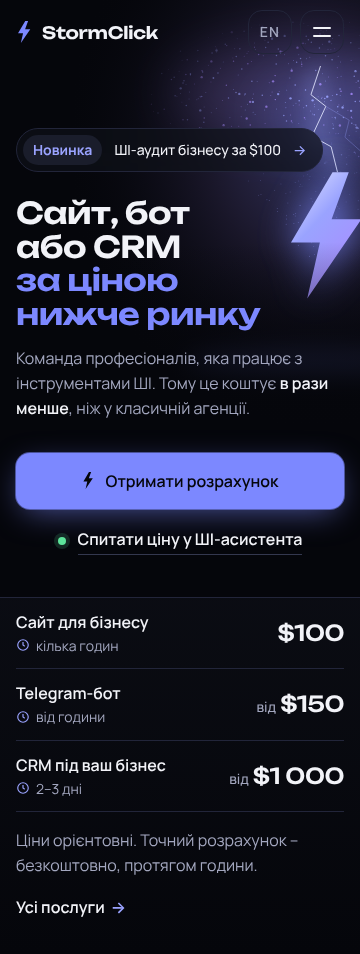
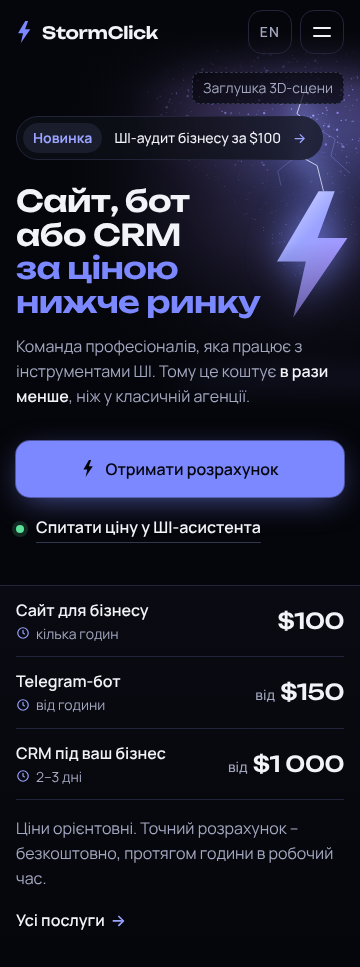
Виправити макет першого екрана за зауваженнями рецензентів
Claude-Session: https://claude.ai/code/session_01SrxZjAM5PvEX4BGjrzztdZ

diff --git a/projects/stormclick-site/design/mockup.html b/projects/stormclick-site/design/mockup.html
@@ -54,13 +54,14 @@ button{font:inherit;color:inherit;background:none;border:0;cursor:pointer}
 
 /* ---- Перший екран ---- */
 .hero{position:relative;min-height:100svh;display:flex;flex-direction:column;isolation:isolate;overflow:hidden}
-.storm{position:absolute;z-index:-1;pointer-events:none;top:0;right:-38%;width:118%;height:440px}
+.storm{position:absolute;z-index:-1;pointer-events:none;top:0;right:-34%;width:118%;height:440px}
+.storm::before{content:"";position:absolute;inset:0 0 auto;height:calc(var(--header-h) + 24px);background:linear-gradient(180deg,var(--c-bg) 35%,rgba(5,6,11,0));z-index:1}
 .storm svg{width:100%;height:100%;display:block}
 .storm::after{content:"";position:absolute;inset:0;background:linear-gradient(180deg,transparent 55%,var(--c-bg) 100%)}
 .hero-main{flex:1;display:flex;align-items:flex-end}
-.hero-main .container{padding-top:calc(var(--header-h) + var(--s-8));padding-bottom:var(--s-6)}
+.hero-main .container{padding-top:calc(var(--header-h) + 52px);padding-bottom:var(--s-6)}
 .announce{display:inline-flex;align-items:center;gap:var(--s-3);min-height:var(--tap);padding:6px 16px 6px 6px;border-radius:var(--r-pill);border:1px solid var(--c-line);background:rgba(14,16,24,.72);backdrop-filter:blur(8px);font-size:var(--fs-small);font-weight:500;color:var(--c-text);margin-bottom:var(--s-5);transition:border-color var(--dur-fast)}
-.announce b{font-weight:700;font-size:var(--fs-small);padding:4px 10px;border-radius:var(--r-pill);background:var(--c-surface-2);color:var(--c-accent-hi)}
+.announce b{margin-right:0;font-weight:700;font-size:var(--fs-small);padding:4px 10px;border-radius:var(--r-pill);background:var(--c-surface-2);color:var(--c-accent-hi)}
 .announce:hover{border-color:var(--c-line-strong)}
 .announce .arr{color:var(--c-accent-hi)}
 h1{font:600 var(--fs-h1)/var(--lh-h1) var(--font-display);letter-spacing:var(--tracking-display);text-wrap:balance;max-width:15ch}
@@ -73,38 +74,45 @@ h1 .hl{color:var(--c-accent);display:block}
 .btn-primary svg{width:12px;height:17px;fill:currentColor}
 .btn-primary:hover{background:var(--c-accent-hi);transform:translateY(-1px)}
 .btn-primary:active{transform:translateY(0) scale(.98)}
-.ask{display:inline-flex;align-items:center;justify-content:center;gap:var(--s-3);min-height:48px;padding:0 var(--s-2);font-weight:600;color:var(--c-text);border-radius:var(--r-md)}
+.ask{display:inline-flex;align-items:center;justify-content:flex-start;align-self:flex-start;gap:var(--s-3);min-height:48px;padding:0 var(--s-1) 0 0;font-weight:600;color:var(--c-text);border-radius:var(--r-md)}
 .ask .dot{width:8px;height:8px;border-radius:50%;background:var(--c-live);box-shadow:0 0 0 4px rgba(92,227,154,.16)}
 .ask .u{border-bottom:1px solid var(--c-line-strong);padding-bottom:2px;transition:border-color var(--dur-fast)}
 .ask:hover .u{border-color:var(--c-text)}
 
 /* ---- Смуга доказу: ціни й терміни ---- */
-.proof{border-top:1px solid var(--c-line);background:linear-gradient(180deg,rgba(14,16,24,.6),rgba(5,6,11,0))}
+.proof{position:relative;z-index:1;border-top:1px solid var(--c-line);background:linear-gradient(180deg,#0A0B12,var(--c-bg))}
 .proof .container{display:grid;grid-template-columns:1fr}
+.p-list{list-style:none;display:grid;grid-template-columns:1fr}
 .p-item{display:grid;grid-template-columns:1fr auto;grid-template-areas:"name price" "time price";column-gap:var(--s-4);align-items:center;padding:var(--s-3) 0;border-bottom:1px solid var(--c-line)}
 .p-name{grid-area:name;font-size:var(--fs-body);font-weight:600}
 .p-time{grid-area:time;font-size:var(--fs-small);color:var(--c-muted);display:flex;align-items:center;gap:6px}
 .p-time svg{width:14px;height:14px;stroke:var(--c-accent-hi);fill:none;stroke-width:2}
 .p-price{grid-area:price;font:500 var(--fs-price)/1 var(--font-display);letter-spacing:-.02em;text-align:right;white-space:nowrap}
-.p-price small{font:500 var(--fs-small)/1 var(--font-body);color:var(--c-muted);letter-spacing:0;margin-right:4px}
+.p-price small{font:500 var(--fs-small)/1 var(--font-body);color:var(--c-muted);letter-spacing:0}
 .p-note{padding:var(--s-4) 0 var(--s-5);font-size:var(--fs-body);color:var(--c-muted);display:flex;flex-wrap:wrap;align-items:center;justify-content:space-between;gap:var(--s-2) var(--s-4)}
 .p-note a{display:inline-flex;align-items:center;min-height:var(--tap);color:var(--c-text);font-weight:600;gap:6px}
 .p-note a span{color:var(--c-accent-hi)}
 
+/* Позначка заглушки – видима завжди, щоб SVG не сприйняли як фінальний візуал */
+.stub{position:absolute;z-index:4;right:max(var(--gutter),calc((100% - var(--container)) / 2));top:calc(var(--header-h) + 8px);display:inline-flex;align-items:center;gap:8px;padding:6px 10px;border:1px dashed var(--c-line-strong);border-radius:var(--r-sm);background:rgba(5,6,11,.7);font-size:var(--fs-small);line-height:1.3;color:var(--c-muted)}
+.stub .long{display:none}
 /* Анотація для погодження (вмикається ?notes) */
 .annot{display:none;position:absolute;z-index:5;right:var(--gutter);top:calc(var(--header-h) + 12px);max-width:260px;padding:10px 12px;border:1px dashed var(--c-accent);border-radius:var(--r-sm);font-size:var(--fs-small);color:var(--c-accent-hi);background:rgba(5,6,11,.8)}
 .show-notes .annot{display:block}
 
 /* ---- 768 ---- */
 @media (min-width:768px){
-  .storm{right:-22%;width:90%;height:620px}
-  .hero-main .container{padding-top:calc(var(--header-h) + var(--s-9))}
+  .storm{right:-14%;width:70%;height:560px}
+  .hero{min-height:min(100svh,940px)}
+  .hero-main{align-items:center}
+  .hero-main .container{padding-top:calc(var(--header-h) + 160px);padding-bottom:var(--s-7)}
+  .stub .long{display:inline}.stub .short{display:none}
   .lead{max-width:42ch}
   .actions{flex-direction:row;align-items:center;gap:var(--s-5)}
-  .proof .container{grid-template-columns:repeat(3,1fr);column-gap:var(--s-5)}
+  .p-list{grid-template-columns:repeat(3,1fr);column-gap:var(--s-5)}
   .p-item{grid-template-columns:1fr;grid-template-areas:"name" "price" "time";row-gap:var(--s-2);padding:var(--s-5) 0;border-bottom:0}
   .p-price{text-align:left;margin-top:var(--s-1)}
-  .p-note{grid-column:1/-1;border-top:1px solid var(--c-line)}
+  .p-note{border-top:1px solid var(--c-line)}
 }
 /* ---- 1440 ---- */
 @media (min-width:1200px){
@@ -119,6 +127,8 @@ h1 .hl{color:var(--c-accent);display:block}
   .header-cta{display:inline-flex;align-items:center;height:var(--tap);padding:0 var(--s-5);border-radius:var(--r-md);border:1px solid var(--c-line-strong);font-weight:600;font-size:15px;transition:border-color var(--dur-fast),background var(--dur-fast)}
   .header-cta:hover{border-color:var(--c-text);background:var(--c-surface)}
   .storm{right:-6%;width:62%;height:100%}
+  .hero{min-height:100svh}
+  .stub{top:calc(var(--header-h) + 16px)}
   .storm::after{background:linear-gradient(90deg,var(--c-bg) 0%,transparent 30%),linear-gradient(180deg,transparent 70%,var(--c-bg) 100%)}
   .hero-main{align-items:center}
   .hero-main .container{padding-top:calc(var(--header-h) + var(--s-7));padding-bottom:var(--s-7)}
@@ -126,10 +136,28 @@ h1 .hl{color:var(--c-accent);display:block}
   .lead{margin-top:var(--s-5);max-width:40ch}
   .actions{margin-top:var(--s-7);gap:var(--s-6)}
   .btn{padding:0 var(--s-6);font-size:17px}
-  .proof .container{grid-template-columns:repeat(3,1fr) 1.15fr;column-gap:var(--s-6)}
+  .proof .container{grid-template-columns:3fr 1.15fr;column-gap:var(--s-6)}
+  .p-list{column-gap:var(--s-6)}
   .p-item{position:relative;padding:var(--s-6) 0 var(--s-6)}
   .p-item + .p-item::before{content:"";position:absolute;left:calc(-1 * var(--s-6) / 2);top:var(--s-6);bottom:var(--s-6);width:1px;background:var(--c-line)}
-  .p-note{grid-column:auto;border-top:0;flex-direction:column;align-items:flex-start;justify-content:center;padding:var(--s-6) 0 var(--s-6) var(--s-6);border-left:1px solid var(--c-line);font-size:15px;line-height:1.5}
+  .p-note{grid-column:auto;border-top:0;flex-direction:column;align-items:flex-start;justify-content:center;padding:var(--s-6) 0 var(--s-6) var(--s-6);border-left:1px solid var(--c-line);font-size:15px;line-height:1.5;text-wrap:balance}
+}
+/* Планшет у ландшафті (1024×768): контент вище, щоб смуга цін була видна */
+@media (min-width:768px) and (max-width:1199px) and (max-height:820px){
+  .hero-main .container{padding-top:calc(var(--header-h) + 64px);padding-bottom:var(--s-5)}
+  .storm{right:-6%;width:66%;height:560px}
+}
+/* Низькі десктопні екрани (1280×720, 1366×768): усе до смуги цін влазить у перший екран */
+@media (min-width:1200px) and (max-height:820px){
+  :root{--fs-h1:clamp(52px,8.5vh,76px);--fs-lead:18px;--fs-price:28px}
+  .hero-main .container{padding-top:calc(var(--header-h) + var(--s-4));padding-bottom:var(--s-5)}
+  .announce{margin-bottom:var(--s-4)}
+  .lead{margin-top:var(--s-4)}
+  .actions{margin-top:var(--s-5)}
+  .p-item{padding:var(--s-5) 0}
+  .p-item + .p-item::before{top:var(--s-5);bottom:var(--s-5)}
+  .p-note{padding:var(--s-5) 0 var(--s-5) var(--s-6)}
+  .storm{width:50%;right:0}
 }
 @media (prefers-reduced-motion:reduce){*{transition:none!important;animation:none!important}}
 </style>
@@ -162,13 +190,14 @@ h1 .hl{color:var(--c-accent);display:block}
   <section class="hero" aria-labelledby="hero-title">
     <!-- [3D] Місце WebGL-сцени «шторм із частинок». Нижче – статична SVG-заглушка, що передає ідею. -->
     <div class="storm" aria-hidden="true">
-      <svg id="storm" viewBox="0 0 800 900" preserveAspectRatio="xMidYMid slice"></svg>
+      <svg id="storm" viewBox="0 0 800 900" preserveAspectRatio="xMidYMin slice"></svg>
     </div>
+    <p class="stub" aria-hidden="true"><span class="short">Заглушка 3D-сцени</span><span class="long">Місце 3D-сцени: шторм із частинок – заглушка</span></p>
     <p class="annot">[3D] Тут шторм із частинок (Three.js). Курсор нахиляє хмару, на скролі частинки збираються в блискавку-логотип. На слабких пристроях – відео-цикл.</p>
 
     <div class="hero-main">
       <div class="container">
-        <a href="#audit" class="announce"><b>Новинка</b>ШІ-аудит бізнесу за $100 <span class="arr" aria-hidden="true">→</span></a>
+        <a href="#audit" class="announce"><b>Новинка</b> ШІ-аудит бізнесу за $100 <span class="arr" aria-hidden="true">→</span></a>
         <h1 id="hero-title">Сайт, бот або CRM <span class="hl">за ціною нижче ринку</span></h1>
         <p class="lead">Команда професіоналів, яка працює з інструментами ШІ. Тому це коштує <strong>в рази менше</strong>, ніж у класичній агенції.</p>
         <div class="actions">
@@ -181,27 +210,29 @@ h1 .hl{color:var(--c-accent);display:block}
       </div>
     </div>
 
-    <div class="proof" aria-label="Орієнтовні ціни і терміни">
+    <section class="proof" aria-label="Орієнтовні ціни і терміни">
       <div class="container">
-        <div class="p-item">
+        <ul class="p-list">
+        <li class="p-item">
           <span class="p-name">Сайт для бізнесу</span>
           <span class="p-price">$100</span>
           <span class="p-time"><svg viewBox="0 0 24 24" aria-hidden="true"><circle cx="12" cy="12" r="9"/><path d="M12 7v5l3 2"/></svg>кілька годин</span>
-        </div>
-        <div class="p-item">
+        </li>
+        <li class="p-item">
           <span class="p-name">Telegram-бот</span>
-          <span class="p-price"><small>від</small>$150</span>
+          <span class="p-price"><small>від</small> $150</span>
           <span class="p-time"><svg viewBox="0 0 24 24" aria-hidden="true"><circle cx="12" cy="12" r="9"/><path d="M12 7v5l3 2"/></svg>від години</span>
-        </div>
-        <div class="p-item">
+        </li>
+        <li class="p-item">
           <span class="p-name">CRM під ваш бізнес</span>
-          <span class="p-price"><small>від</small>$1 000</span>
+          <span class="p-price"><small>від</small> $1 000</span>
           <span class="p-time"><svg viewBox="0 0 24 24" aria-hidden="true"><circle cx="12" cy="12" r="9"/><path d="M12 7v5l3 2"/></svg>2–3 дні</span>
-        </div>
-        <p class="p-note">Ціни орієнтовні. Точний розрахунок – безкоштовно, протягом години.
+        </li>
+        </ul>
+        <p class="p-note">Ціни орієнтовні. Точний розрахунок – безкоштовно, протягом години в робочий час.
           <a href="#services">Усі послуги <span aria-hidden="true">→</span></a></p>
       </div>
-    </div>
+    </section>
   </section>
 </main>
 

diff --git a/projects/stormclick-site/design/design-brief.md b/projects/stormclick-site/design/design-brief.md
@@ -1,6 +1,6 @@
 # StormClick – дизайн-рішення першого екрана
 
-Обсяг: шапка + перший екран до першої прокрутки. Ширини: 360 (основна мобільна), 1440 (десктоп), 768 (без поломок).
+Обсяг: шапка + перший екран до першої прокрутки. Ширини: 360 (основна мобільна), 1440 (десктоп), 768 (без поломок). Додатково перевірено 1024×768, 1280×720, 1366×768 (`shots/viewport-*.png`).
 Файли: `tokens.css` – токени, `mockup.html` – макет, `shots/` – скриншоти макета.
 Джерела: `docs/brief.md` сайту, `src/i18n.js` (ключі UA), `src/pricing.js`, скриншоти й `report.json` поточного сайту.
 
@@ -16,10 +16,10 @@
 | Дві кнопки однакової ваги: «Отримати розрахунок» і «Запитати ШІ-асистента» | Одна основна кнопка (електрична, з блискавкою, світиться) + текстове посилання «Спитати ціну у ШІ-асистента» з зеленою точкою «онлайн» | Зрозуміло, що головне. Асистент лишається на виду, але не конкурує за клік |
 | Основна кнопка біла, як і кнопка в шапці | Основна – електрично-синя `#7C88FF` з темним текстом (6.6:1); кнопка в шапці «Обговорити проєкт» – контурна | Акцентний колір працює лише на цільову дію і прямо втілює «удар = клік». На екрані немає двох «головних» кнопок |
 | Підзаголовок на 40 слів з переліком термінів | Коротший лід (2–3 рядки) + терміни й ціни винесені в смугу доказу | Факти, сховані в абзаці, ніхто не читає; цифри в табло читаються за 3 секунди |
-| Під кнопками – три картки «ШІ у дії» (чат, KPI «$1 000», список задач з демо-даними), на мобільному обрізані | Смуга доказу: Сайт $100 · кілька годин / Telegram-бот від $150 · від години / CRM від $1 000 · 2–3 дні + «Ціни орієнтовні. Точний розрахунок – безкоштовно, протягом години» | Картки дрібні (12–13 px), з демо-цифрами, що можна сприйняти як кейси, і змішують ціни ($1 000 у картці проти $100 у тексті). Табло – лише реальні ціни з прайсу. Картки можна перенести в блок «ШІ – наш козир» нижче |
+| Під кнопками – три картки «ШІ у дії» (чат, KPI «$1 000», список задач з демо-даними), на мобільному обрізані | Смуга доказу: Сайт $100 · кілька годин / Telegram-бот від $150 · від години / CRM від $1 000 · 2–3 дні + «Ціни орієнтовні. Точний розрахунок – безкоштовно, протягом години в робочий час» (як у `f4.label` і `contact.text`) | Картки дрібні (12–13 px), з демо-цифрами, що можна сприйняти як кейси, і змішують ціни ($1 000 у картці проти $100 у тексті). Табло – лише реальні ціни з прайсу. Картки можна перенести в блок «ШІ – наш козир» нижче |
 | Плашка «NEW AI business audit…» 12–13 px, на мобільному у 2 рядки | Плашка-анонс 44 px заввишки, текст 14 px: «Новинка · ШІ-аудит бізнесу за $100 →» – в один рядок на 360 | Читається, по ній зручно влучити; англійське «NEW» прибрано з української версії |
 | Перемикач мови 40×28 px, бургер 40×40 | Мобільний: одна кнопка «EN» 44×44 (перемикає на іншу мову) + бургер 44×44. Десктоп: сегменти UA/EN 44×36 у рамці 44 px | Мінімальна зона натискання 44 px |
-| Заголовок на мобільному – 4 широкі рядки 38+ px, кнопка на ~530 px від верху, доказу не видно | Заголовок 30 px (Unbounded 600), друга половина акцентом; кнопка на ~480 px, на екрані 800 px видно два з трьох рядків табло цін | На першому екрані мобільного: офер, кнопка і доказ |
+| Заголовок на мобільному – 4 широкі рядки 38+ px, кнопка на ~530 px від верху, доказу не видно | Заголовок 30 px (Unbounded 600), друга половина акцентом; кнопка закінчується на ~500 px, на екрані 360×800 видно всі три рядки табло цін, за край іде лише примітка | На першому екрані мобільного: офер, кнопка і доказ |
 | Unbounded 700 з дуже щільним кернінгом | Unbounded 600, -0.02em | Широкий шрифт у жирному 700 «злипається» в кирилиці («жч», «ши»); 600 дорожчий і чистіший |
 | Текст 12–13 px у підписах | Мінімум 14 px для будь-якого тексту, 16 px – для абзаців на мобільному | Читабельність; `report.json` макета – 0 сигналів дрібного тексту й дрібних зон |
 
@@ -81,11 +81,14 @@
 3. **H1** – «Сайт, бот або CRM / за ціною нижче ринку», друга частина акцентом з нового рядка.
 4. **Лід** – «Команда професіоналів, яка працює з інструментами ШІ. Тому це коштує **в рази менше**, ніж у класичній агенції.» (скорочено з `hero.subtitle`, див. питання 1).
 5. **Дії** – основна кнопка «Отримати розрахунок» (на мобільному на всю ширину, 56 px) + посилання «Спитати ціну у ШІ-асистента» з точкою «онлайн», відкриває чат-асистента.
-6. **Смуга доказу (табло)** – притиснута до низу першого екрана на десктопі. Три послуги з заголовка (сайт / бот / CRM) з ціною і терміном + примітка «Ціни орієнтовні. Точний розрахунок – безкоштовно, протягом години» і «Усі послуги →».
+6. **Смуга доказу (табло)** – притиснута до низу першого екрана на десктопі. Три послуги з заголовка (сайт / бот / CRM) з ціною і терміном + примітка «Ціни орієнтовні. Точний розрахунок – безкоштовно, протягом години в робочий час» і «Усі послуги →». Розмітка: `<section aria-label="Орієнтовні ціни і терміни">`, послуги – список `<ul>/<li>`; між «від» і ціною – справжній пробіл (для екранного диктора).
    - 1440: 4 колонки з вертикальними розділювачами.
    - 768: 3 колонки, примітка рядком нижче.
-   - 360: список рядків «назва + термін зліва, ціна справа»; на екрані 800 px видно 2–3 рядки – це запрошення гортати.
-7. **Шторм (3D)** – справа на десктопі (≈62% ширини, від'їжджає під текст через градієнт), на мобільному – угорі праворуч за заголовком, нижня частина розчиняється у фон.
+   - 360: список рядків «назва + термін зліва, ціна справа»; на екрані 360×800 видно всі три рядки, примітка – одразу під згином.
+   - Низькі десктопи (`min-width:1200px` і `max-height:820px`, тобто 1280×720, 1366×768): H1 `clamp(52px, 8.5vh, 76px)`, лід 18 px, ціни 28 px, стиснуті верхні відступи (плашка – 16 px під шапкою, «лід → дії» 24 px), шторм вужчий (50%), щоб блискавка не заходила на смугу. Смуга повністю в першому екрані.
+   - Ландшафтний планшет (768–1199 і `max-height:820px`, напр. 1024×768): верхній відступ 64 px, три ціни видно повністю.
+7. **Позначка заглушки** – у макеті завжди видимий підпис у пунктирній рамці «Місце 3D-сцени: шторм із частинок – заглушка» (на 360 – «Заглушка 3D-сцени»), щоб SVG не сприйняли як фінальний візуал. На сайті її немає. Довший опис поведінки сцени – з `?notes`.
+8. **Шторм (3D)** – справа на десктопі (≈62% ширини, від'їжджає під текст через градієнт), на планшеті – угорі праворуч над заголовком, на мобільному – угорі праворуч за заголовком, нижня частина розчиняється у фон. Під шапкою сцена затемнена градієнтом, щоб розряд не проходив під кнопками шапки. Смуга цін має непрозорий фон і лежить над сценою.
 
 Плаваюча кнопка «ШІ-асистент» (зараз у правому нижньому куті) на першому екрані **прихована** – асистент уже є в діях; з'являється після прокрутки за табло. На мобільному вона зараз перекриває контент.
 
